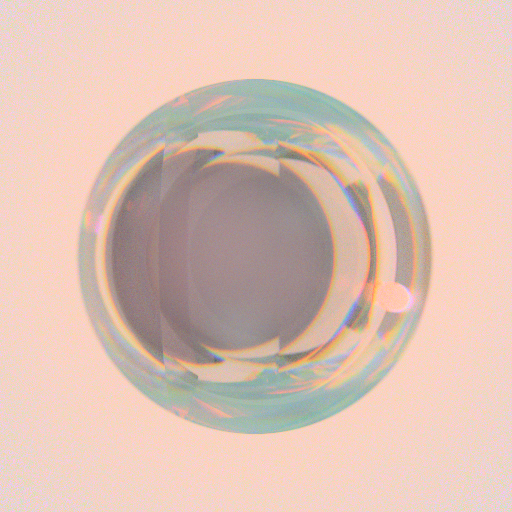
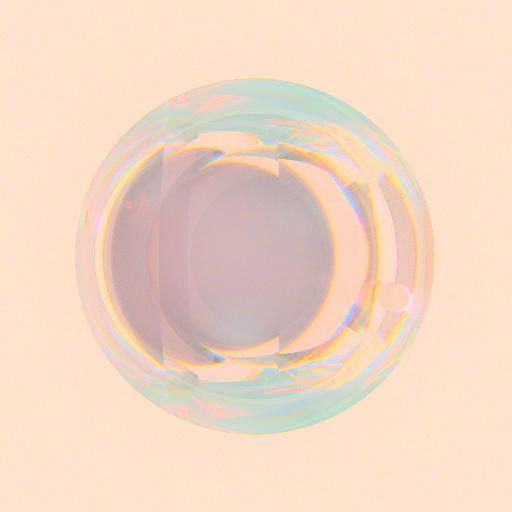
iter7: BREAKTHROUGH - center-aimed lens rays, sharp focus with dispersion
- Rays aimed at lens center instead of sampling across aperture disk
- Gives sharp focus (no DOF blur) while maintaining full lens system
- Anamorphic dispersion creates horizontal rainbow streaks physically
- White background, deep blacks, concentric shells clearly visible
- Clean image with 1000+ samples per pixel
- exposure=0.6, firefly clamp=10, bg emission=4.0
- Glass reflectance 0.08-0.12 for specular highlights

Amp-Thread-ID: https://ampcode.com/threads/T-019cf5d3-6610-760a-995e-9f4d34673b43

diff --git a/metal_tracer.m b/metal_tracer.m
@@ -490,7 +490,7 @@ void gpu_ray_trace_to_pixels(sceneT *scene, int width, int height,
             float b = gpu_output[idx + 2];
             if (r < 0) r = 0; if (g < 0) g = 0; if (b < 0) b = 0;
             // Exposure boost before tonemapping
-            float exposure = 0.35f;
+            float exposure = 0.6f;
             r *= exposure; g *= exposure; b *= exposure;
             // Luminance-based ACES filmic tonemapping — good contrast + HDR compression
             // while preserving color saturation